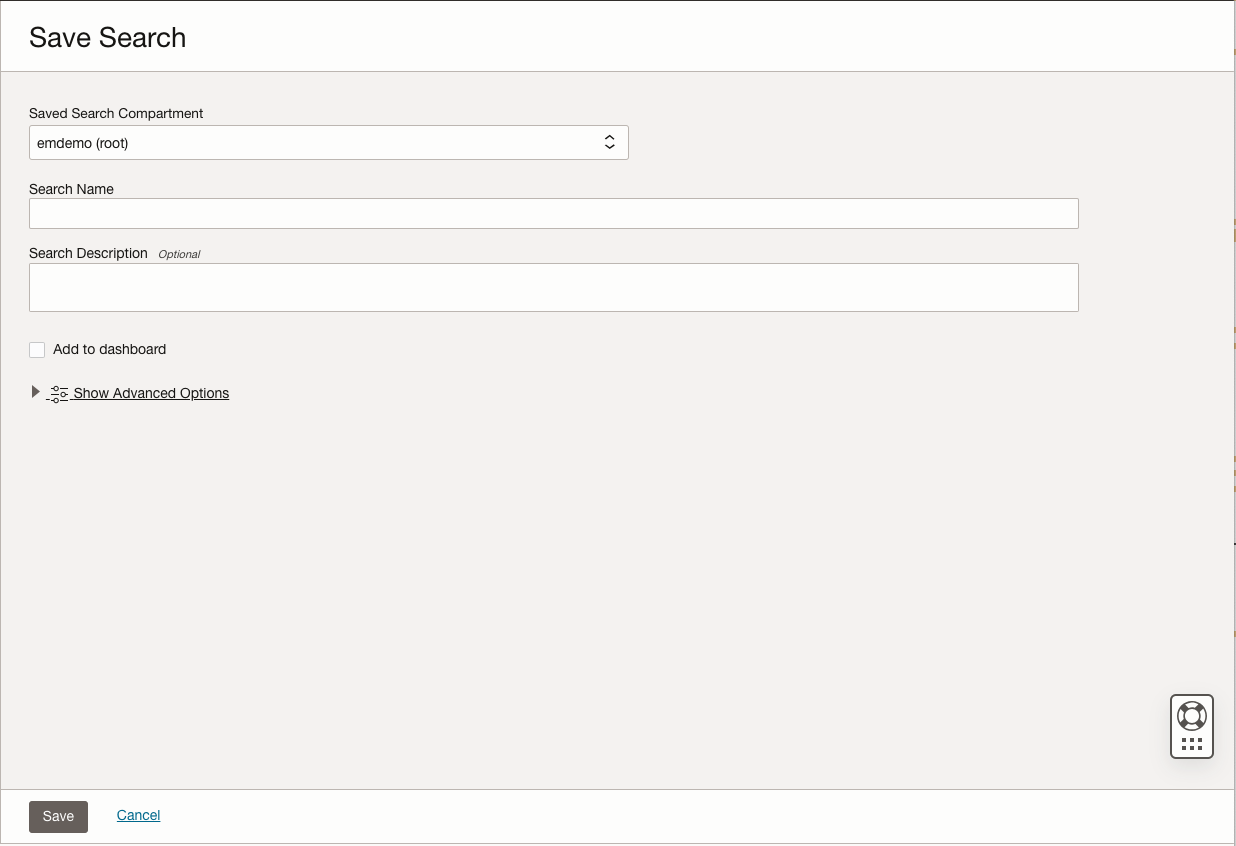
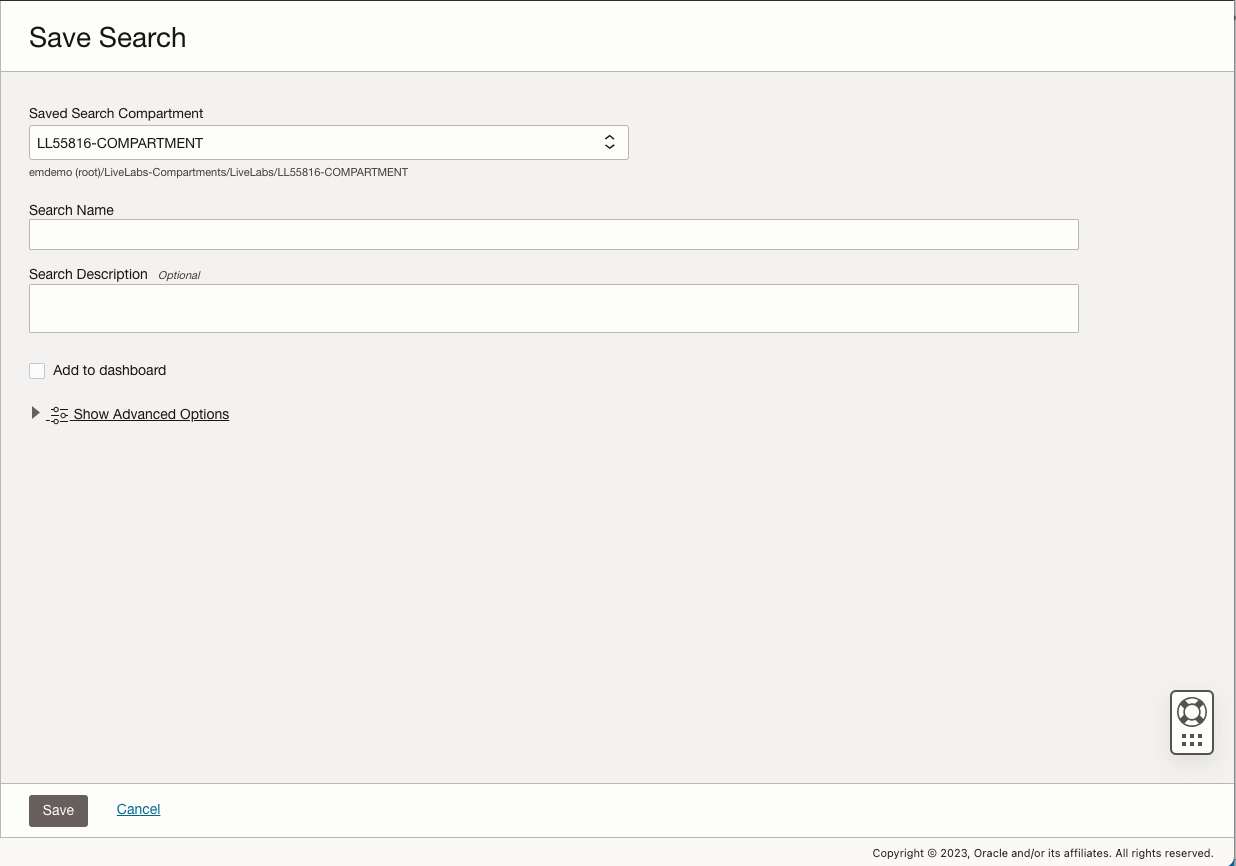
Updates after dry run
Updates after dry run

diff --git a/logging-analytics/oke-monitoring-la/analyzing-logs/analyzing-logs.md b/logging-analytics/oke-monitoring-la/analyzing-logs/analyzing-logs.md
@@ -167,7 +167,7 @@ Estimated Time: 30 minutes
 
 ## Task 4 : Building Interactive Visualization for Deployments
 
- In this task we will find what type of workloads are running in different namespaces and the names of those workloads
+ In this task we will find what type of workloads are running in different namespaces and the names of those workloads.
 
 1. Select the visualization **Distinct**.
   ![distinct-visualization](images/distinct-visualization.png)
@@ -181,6 +181,7 @@ Estimated Time: 30 minutes
        ![ namespace-to-group-by.png](images/namespace-to-group-by.png)
     - The **Namespace** field will be added in the **Group by** textbox under Visualization Panel. 
        ![namespace-added-to-group-by](images/namespace-added-to-group-by.png) 
+      > **Note :** The Group By textbox allows a maximum of 4 fields in the Distinct Visualization. Hence remove all the other fields apart from **Namespace**   
 
        
 
@@ -193,9 +194,11 @@ Estimated Time: 30 minutes
 5. The results will be grouped by **Namespace** , **Controller** and **Controller Kind**. 
    ![distinct-view-namespace-controller-controllerkind](images/distinct-view-namespace-controller-controllerkind.png) 
 
-6. In the results look for the your user's **Namespace**. The **Namespace** can be found from the **View Login Info** page with the field name **Kubernetes Namespace**.
+6. In the results look for your user's **Namespace** by scrolling in the **Field Value** column . The **Namespace** can be found from the **View Login Info** page with the field name **Kubernetes Namespace**.
+         
+      > **Note :** The **Namespace** will  be in the format **resrReservationId**.  
 
-      > Note : The **Namespace** will  be in the format **resrReservationId**.  
+
 
     i. Click on expand icon to view the different resources (Controller) created in your user's Namespace. 
      ![expand-icon-for-k8s-namespace](images/expand-icon-for-k8s-namespace.png) 
@@ -210,7 +213,7 @@ Estimated Time: 30 minutes
    > Note : Upon expanding the Namespace icon we can also see No Value, need to check with Santhosh.
      
 
-## Task 5 : Find number of total pods, running pods in a namespace
+## Task 5 (To Be Removed) : Find number of total pods, running pods in a namespace
 
   > **Note** : Before moving on to the next steps. Clear the query bar and click on **Run**.
 
@@ -343,25 +346,27 @@ Estimated Time: 30 minutes
 4. Click on the **Save as** option.
    ![save-as-button](images/save-as-button.png)
 
-5. A **Save search** pop up will be displayed.
+5. A **Save search** pop up will be displayed. By default your user's **Compartment** in selected in **Save Search Compartment** dropdown.
    ![save-search-popup](images/save-search-popup.png)
-    > Note : You will see the Authorization error - which is expected - if _root_ **Compartment** is selected.
+    > Note : You will see the Authorization error if any other **Compartment** is selected in **Save Search Compartment** dropdown.
 
 6. In the  **Save search** pop up perform the following actions.
-    - Type the **Compartment** name in the **Saved Search Compartment** for your user the **Compartment** name will be **LLresrvationid-COMPARTMENT**.
-        > Note : You can always find the **Compartment** name from the View Login Info page.
+   
+    - (Optional) Type the **Compartment** name in the **Saved Search Compartment** for your user the **Compartment** name will be **LLresrvationid-COMPARTMENT**.  You can always find the **Compartment** name from the View Login Info page.
+        > Note : This step is optional if you have not changed the **Compartment** in step 5.
+        
 
     - Enter the **Search Name**.
     - Check the **Add to dashboard** checkbox.
     - Select the **New Dashboard** radio button.
-    - Select the **Dashboard Compartment** name same as step 1.
-    - Enter the **Dashboard Name**.
+    - Select the **Dashboard Compartment** name. Make sure that you select the same **Compartment** for Dashboard and Save Search.
+    - Enter the **Dashboard Name**. 
     - Click on **Save** button.
     ![create-dashboard](images/create-dashboard.png)
     - A saved search will be created and added to the Dashboard.
     ![save-search-and-dashboard-confirmation](images/save-search-and-dashboard-confirmation.png)  
 
-7. Click on the drop-down of top left side of the Log Explorer Page and select **Dashboards**.
+7. Click on the drop-down on top left side of the Log Explorer Page and select **Dashboards**.
     ![dashboard-navigation](images/dashboard-navigation.png)
 
     **OR**
@@ -422,6 +427,8 @@ Estimated Time: 30 minutes
    We looked at the trend of revenue in previous task. In this task we want to find out average **Sales Amount** that is processed.    
 
 1. Select the visualization **Pie Chart**.
+   ![pie-chart-visualization](images/pie-chart-visualization.png)
+
 
 2. Run the following query in the **Query Bar**.
 
@@ -453,12 +460,13 @@ Estimated Time: 30 minutes
       > **Hint** : In the begining of this Lab we selected root compartment which has two **Log Group** and we learnt that the **Log Group** <em>kubernetes_logs</em> has the copy of the Kubernetes Logs ingested through Kubernetes Cluster **oke-cw23-II**. Refer **Task 1** > **Step 5** > **Note** to ascertain this.
 
 7. Retrieveing the correct value of the daily average sales.
-  - Clear the field **Kubernetes Cluster Name** in the Fields panel's Search Fields textbox by clicking `x` button.
+  - Clear the field **Sales Amount** in the Fields panel's Search Fields textbox by clicking `x` button.
   - Click on the field **Log Group**  in the Fields panel.
      ![field-log-group](images/field-log-group.png)
   -  **Filter Log Group** pop-window will be displayed.
   - Select your user's **Log Group**. 
   - Click on **Apply** button.
+  - Now you will be able to see the correct value of the daily average sales.
 
          
                  
